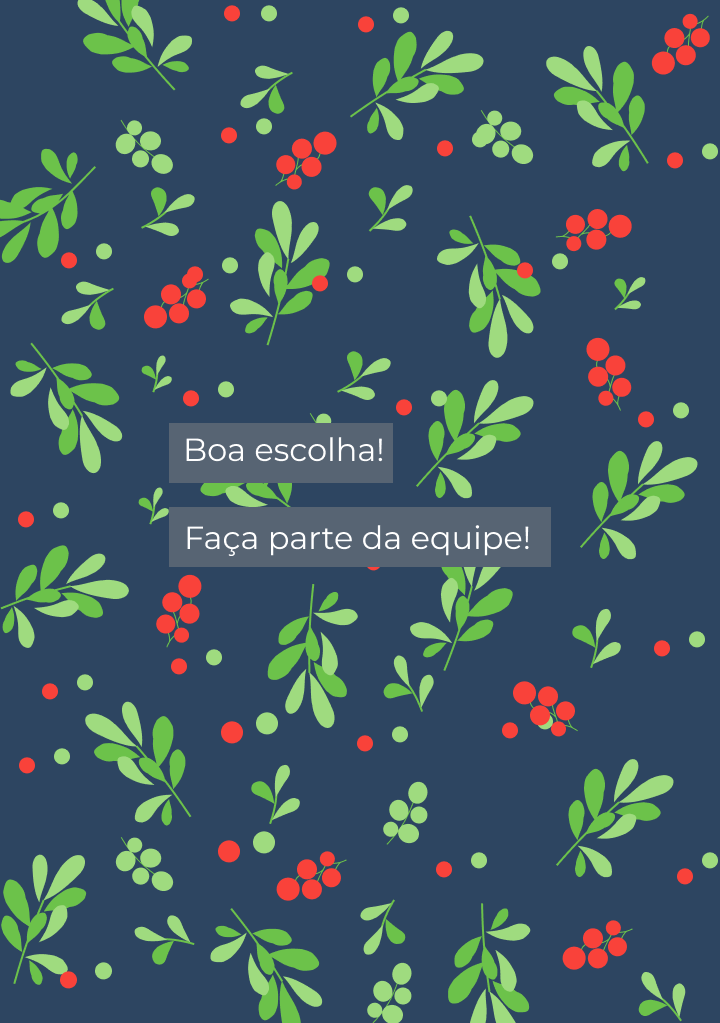
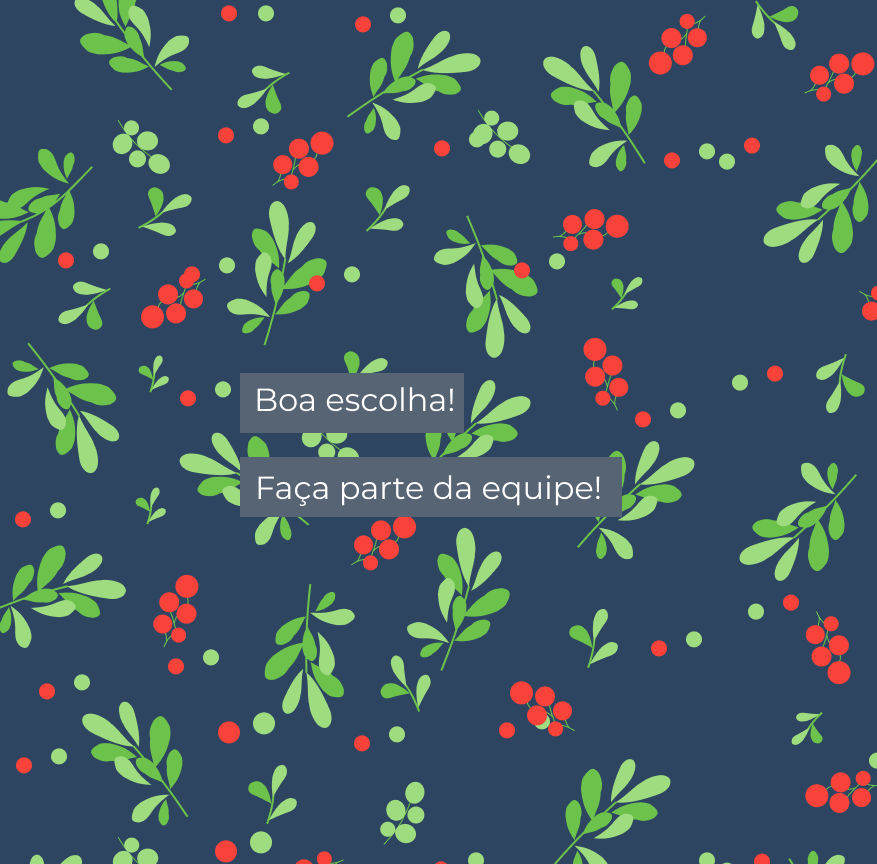
melhoria na responsividade da imagem lateral

diff --git a/src/pages/Registrar/SignUP.js b/src/pages/Registrar/SignUP.js
@@ -41,10 +41,11 @@ const SignUP = ({ SubmitForm }) =>
     return (
         <Fragment>
             
+            <div className="container">
             <div className="form-signup-container">
                 <div className="top-signup">
                     <a href="http://localhost:3000/"> 
-                        <img className="top-signup-logo" src="img/logo_word.png" alt="logo CheeryUp"/>
+                        <img className="top-signup-logo" src="img/logo_word.png" alt="logo CheeryUp" />
                     </a>
 
                     <a href="http://localhost:3000/"> 
@@ -63,12 +64,13 @@ const SignUP = ({ SubmitForm }) =>
                                     {errors.nome && <p class="p-message">{errors.nome}</p>}
                                 <Form.Input placeholder="Digite seu e-mail" label="Email" required fluid onChange={handleChange} name='email' value={values.email} /> 
                                     {errors.email && <p class="p-message">{errors.email}</p>}
-                                <Form.Input placeholder="Digite o número do CRP" label="nCRP" required fluid onChange={handleChange} name='nCRP' value={values.nCRP} /> 
+                                <Form.Input placeholder="Digite o número do CRP" label="Número do CRP" required fluid onChange={handleChange} name='nCRP' value={values.nCRP} /> 
                                     {errors.nCRP && <p class="p-message">{errors.nCRP}</p>}
                                 <Form.Input placeholder="Digite sua senha" label="Senha" type="password" required fluid onChange={handleChange} name='senha' value={values.senha} /> 
                                     {errors.senha && <p class="p-message">{errors.senha}</p>}
                                 <Form.Input placeholder="Confirme sua senha" label="Confirmar senha" type="password" required fluid onChange={handleChange} name='senha2' value={values.senha2} /> 
                                     {errors.senha2 && <p class="p-message">{errors.senha2}</p>}
+
                                 <Button type="submit" onClick={handleSubmit}>Cadastrar </Button>
                                 <span className="form-input-loguin">
                                     Já possui cadastro ?
@@ -85,6 +87,8 @@ const SignUP = ({ SubmitForm }) =>
             <div className="side-image">
                 <img src="img/wallpaper_cadastro.png" alt="Wallpaper cadastro"/>
             </div> 
+
+            </div>
 
              
         </Fragment>

diff --git a/src/style/pages/Cadastro/SignUP.css b/src/style/pages/Cadastro/SignUP.css
@@ -1,8 +1,25 @@
+.container{
+  display: flex;
+}
+
 .form-signup-container {
+  position:relative;
   display: inline-block;
   height: 100vh;
+  width: 50vw;
   background: #ffffff
 } 
+
+.side-image{
+  position: relative;
+  display: inline-block;
+  align-items: center;
+}
+
+.ui.input > input {
+  font-size: 1.2rem;
+  background-color: red;
+}
 
 .form-signup-wrap {
   height: 100vh;
@@ -17,6 +34,10 @@
 .form-content-input {
   display: flex;
   flex-direction: column;
+}
+
+.form-content-input input{
+  background-color: red;
 }
 .form-title {
   display: flex;
@@ -49,6 +70,7 @@
 
   .top-signup-navbar-option{
     text-align: center;
+    font-weight: bold;
     padding: 2rem;
     width: 100%;
     font-size: 1.4rem;
@@ -57,16 +79,9 @@
   }
 
   .top-signup-navbar-option:hover{
-    transition-delay: 0.1s;
+    transition: all 0.4s ease-out;
     color: #F9423A;
   }
-
-  .side-image{
-    display: inline-block;
-    float: left;
-    height: 100vh;
-  }
-
   
   .form-success {
     text-align: center;
@@ -102,7 +117,7 @@
   }
   
   .p-message {
-    font-size: 0.5rem;
+    font-size: 0.9rem;
     margin-top: 0.1rem;
     color: #f0300efa;
   }
@@ -130,34 +145,6 @@
     font-size: 1.2rem;
   }
   
-  .form-input-btn {
-    position: absolute;
-    right: 0;
-    bottom: 0;
-    width: 30%;
-    height: 50px;
-    border-radius: 25px;
-    background: linear-gradient(
-      90deg,
-      rgb(236, 6, 6) 0%,
-      #f70202 100%
-    );
-    outline: none;
-    border: none;
-    color: #fff;
-    font-size: 1.5rem;
-    font-family: 'Roboto', sans-serif;
-  }
-  
-  .form-input-btn:hover {
-    cursor: pointer;
-    background: linear-gradient(
-      90deg,
-      rgb(39, 143, 255) 0%,
-      rgb(12, 99, 250) 100%
-    );
-    transition: all 0.4s ease-out;
-  }
   
   .form-input-login {
     font-size: 1.5rem;
